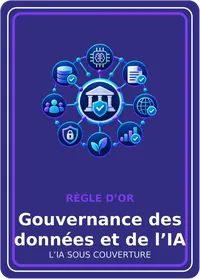
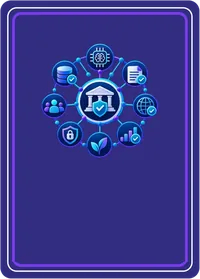
Distribue les cartes par identifiant et écrit le texte des dos de cartes en HTML
Première étape vers un jeu en anglais, allemand, italien et espagnol.

- Chaque carte reçoit un identifiant (« classique:R1-C03 », « po:R2-U01 ») ;
  le moteur distribue les cartes par identifiant et non plus par texte.
  La distribution est identique (vérifiée sur 6 400 manches) ; modifier ou
  traduire un texte ne change plus les parties en cours.
- cardId passe de js/xlsx.js à js/cards.js (réexporté par js/xlsx.js).
- Les dos de cartes n'ont plus de texte dans l'image : « Règle d'or », le
  thème et « L'IA sous couverture » sont écrits en HTML par-dessus, en
  tailles proportionnelles à la carte. Le libellé « Règle d'or » est
  éclairci pour atteindre un contraste de 4,5:1.
- Entrée « Dos de cartes plus lisibles » dans la page Nouveautés, VERSION v62.

Changed region(s): [[0.06, 0.7455, 0.93, 0.9462], [0.33, 0.6882, 0.69, 0.7455]]

diff --git a/js/app.js b/js/app.js
@@ -481,10 +481,19 @@ function backImg(rule, className = "back", { lazy = true, small = false } = {}) 
         <span class="lt-back-foot">L'IA sous couverture</span>
       </div>`;
   }
-  const src = small ? rule.back.replace(".webp", "-mini.webp") : rule.back;
-  const [w, h] = small ? [200, 279] : [640, 893];
+  const loading = lazy ? 'loading="lazy"' : "";
   // Les vignettes sont toujours accompagnées du nom de la règle en texte : elles sont décoratives.
-  return `<img class="${className}" src="${src}" width="${w}" height="${h}" draggable="false" ${lazy ? 'loading="lazy"' : ""} alt="${small ? "" : alt}">`;
+  if (small) return `<img class="${className}" src="${rule.back.replace(".webp", "-mini.webp")}" width="200" height="279" draggable="false" ${loading} alt="">`;
+  // Grand dos : illustration sans texte, et le texte de la carte en HTML (traduisible).
+  return `
+    <div class="${className} back-art back--r${rule.id}" role="img" aria-label="${alt}">
+      <img src="${rule.back}" width="640" height="893" draggable="false" ${loading} alt="">
+      <span class="back-text" aria-hidden="true">
+        <span class="back-label">Règle d'or</span>
+        <strong>${esc(rule.theme)}</strong>
+        <span class="back-foot">L'IA sous couverture</span>
+      </span>
+    </div>`;
 }
 
 // Carte secrète : le dos de la carte de la règle d'or la masque. On la retourne en la touchant, en
@@ -549,10 +558,10 @@ function bindSecret() {
 // Carte vue par un joueur. Coopératif : personne ne connaît son rôle. Compétitif : chacun le connaît.
 function playerCardHtml(game, deal, me) {
   const { id: ruleId, theme, summary } = deal.rule;
-  if (game.mode === "coop") return cardHtml({ ruleId, text: me.card, theme, summary });
+  if (game.mode === "coop") return cardHtml({ ruleId, text: me.card.text, theme, summary });
   return me.role === "undercover"
-    ? cardHtml({ ruleId, text: me.card, theme, summary, kind: "undercover", note: "<strong>Tu es l'undercover :</strong> ta carte enfreint la règle d'or. Fais-toi passer pour un équipier ! <strong>Pour bluffer :</strong> décris le contexte de ta carte (qui, quel outil, pour quoi faire) et tais le détail qui enfreint la règle." })
-    : cardHtml({ ruleId, text: me.card, theme, summary, note: "<strong>Tu es équipier :</strong> ta carte respecte la règle d'or. Démasque l'undercover ! <strong>Ta mission :</strong> repère la description trop vague ou qui évite un détail, et pose une question à ce joueur pendant le débat." });
+    ? cardHtml({ ruleId, text: me.card.text, theme, summary, kind: "undercover", note: "<strong>Tu es l'undercover :</strong> ta carte enfreint la règle d'or. Fais-toi passer pour un équipier ! <strong>Pour bluffer :</strong> décris le contexte de ta carte (qui, quel outil, pour quoi faire) et tais le détail qui enfreint la règle." })
+    : cardHtml({ ruleId, text: me.card.text, theme, summary, note: "<strong>Tu es équipier :</strong> ta carte respecte la règle d'or. Démasque l'undercover ! <strong>Ta mission :</strong> repère la description trop vague ou qui évite un détail, et pose une question à ce joueur pendant le débat." });
 }
 
 // Indication visible sous la carte, même face cachée : elle ne doit pas dépendre du rôle.
@@ -1586,7 +1595,7 @@ function viewHost(code) {
       const { id: ruleId, theme, summary } = deal.rule;
       openModal(`
         <h2>Carte de ${esc(playerName(hostState(code), seat))}</h2>
-        ${cardHtml({ ruleId, text: deal.roles[seat - 1].card, theme, summary })}
+        ${cardHtml({ ruleId, text: deal.roles[seat - 1].card.text, theme, summary })}
         <button class="btn btn--primary" data-close>Fermer</button>`);
     })
   );
@@ -1765,13 +1774,13 @@ function viewDebrief(code, { round, names, back, mySeat = null, unplayed = false
   const deal = dealRound(game, shown);
   const rule = deal.rule;
   const label = (seat) => (names ? names[seat] || `Joueur ${seat}` : playerName(state, seat)) + (seat === mySeat ? " (toi)" : "");
-  const holders = (text) =>
+  const holders = (card) =>
     deal.roles
-      .filter((r) => r.card === text)
+      .filter((r) => r.card === card)
       .map((r) => label(r.seat))
       .join(", ");
   const [backHref, backText] = back || (round ? [`#/end/${code}`, "Retour aux résultats"] : [`#/host/${code}`, "Retour à la partie"]);
-  const distributed = rule.civilians.filter((c) => holders(c.text));
+  const distributed = rule.civilians.filter((c) => holders(c));
 
   app.innerHTML = `
     <section>
@@ -1789,7 +1798,7 @@ function viewDebrief(code, { round, names, back, mySeat = null, unplayed = false
       <h2>${deal.undercovers.length > 1 ? "Les cartes undercover" : "La carte undercover"}</h2>
       ${deal.undercovers
         .map(
-          (u) => `${cardHtml({ ruleId: rule.id, card: u, kind: "undercover", label: holders(u.text) })}
+          (u) => `${cardHtml({ ruleId: rule.id, card: u, kind: "undercover", label: holders(u) })}
       <p class="why"><strong>Pourquoi elle enfreint la règle :</strong> ${esc(u.why)}</p>`
         )
         .join("")}
@@ -1798,7 +1807,7 @@ function viewDebrief(code, { round, names, back, mySeat = null, unplayed = false
       <div class="debrief-civ">
       <h2>Les cartes des équipiers</h2>
       <div class="grid">
-        ${distributed.map((c) => cardHtml({ ruleId: rule.id, card: c, label: holders(c.text) })).join("")}
+        ${distributed.map((c) => cardHtml({ ruleId: rule.id, card: c, label: holders(c) })).join("")}
       </div>
 
       <h2>Questions pour la discussion</h2>

diff --git a/tests/game.test.js b/tests/game.test.js
@@ -29,6 +29,18 @@ test("chaque règle a ses cartes civiles et undercover, un dos et ses textes", (
   assert.equal(new Set(texts).size, texts.length, "chaque carte est unique");
 });
 
+test("chaque carte a un identifiant unique, préfixé par son édition", () => {
+  const ids = [];
+  for (const [edition, { rules }] of Object.entries(EDITIONS)) {
+    for (const r of rules) {
+      r.civilians.forEach((c, i) => assert.equal(c.id, `${edition}:R${r.id}-C${String(i + 1).padStart(2, "0")}`));
+      r.undercovers.forEach((c, i) => assert.equal(c.id, `${edition}:R${r.id}-U${String(i + 1).padStart(2, "0")}`));
+      ids.push(...r.civilians.concat(r.undercovers).map((c) => c.id));
+    }
+  }
+  assert.equal(new Set(ids).size, ids.length);
+});
+
 test("le code encode et décode les paramètres", () => {
   for (let players = 3; players <= MAX_PLAYERS; players++) {
     for (const undercovers of [1, 2]) {
@@ -89,8 +101,8 @@ test("la distribution est identique sur tous les appareils et respecte les rôle
       const pool = rulePool(a.rule, deck);
       assert.ok(pool.undercovers.includes(a.undercover));
       for (const r of a.roles) {
-        if (r.role === "undercover") assert.equal(r.card, a.undercover.text);
-        else assert.ok(pool.civilians.some((c) => c.text === r.card));
+        if (r.role === "undercover") assert.equal(r.card, a.undercover);
+        else assert.ok(pool.civilians.includes(r.card));
       }
       assert.ok(a.starter >= 1 && a.starter <= players);
     }
@@ -116,7 +128,7 @@ test("les codes de l'ancien format sont refusés", () => {
 test("les civils reçoivent des cartes différentes tant que possible", () => {
   const game = decodeCode(encodeCode({ ...base, seed: 42 }));
   for (let round = 1; round <= 7; round++) {
-    const cards = dealRound(game, round).roles.filter((r) => r.role === "civilian").map((r) => r.card);
+    const cards = dealRound(game, round).roles.filter((r) => r.role === "civilian").map((r) => r.card.text);
     assert.equal(new Set(cards).size, cards.length);
   }
 });
@@ -214,7 +226,7 @@ test("la distribution tient compte des manches précédentes de façon détermin
 test("deux undercovers : même carte, ou une carte chacun si la règle en a assez", () => {
   for (let seed = 0; seed < 40; seed++) {
     const settings = { seed, players: 7, undercovers: 2, rounds: 7 };
-    const cardsOf = (deal) => deal.roles.filter((r) => r.role === "undercover").map((r) => r.card);
+    const cardsOf = (deal) => deal.roles.filter((r) => r.role === "undercover").map((r) => r.card.text);
     // Par défaut : la même carte pour les deux (7 joueurs et plus : toujours avec l'extension).
     const same = dealRound(decodeCode(encodeCode({ ...settings, deck: "ext" })), 1);
     assert.equal(new Set(cardsOf(same)).size, 1);
@@ -242,7 +254,7 @@ test("deux joueurs ne reçoivent jamais la même carte", () => {
           for (let seed = 0; seed < 12; seed++) {
             const game = decodeCode(encodeCode({ seed: seed * 101 + players, players, undercovers, rounds: 14, deck, ucCards }));
             for (let round = 1; round <= 14; round++) {
-              const civilians = dealRound(game, round).roles.filter((r) => r.role === "civilian").map((r) => r.card);
+              const civilians = dealRound(game, round).roles.filter((r) => r.role === "civilian").map((r) => r.card.text);
               assert.equal(new Set(civilians).size, civilians.length, `${players} joueurs, ${deck}, manche ${round}`);
             }
             games++;
@@ -288,7 +300,7 @@ test("édition PO : stockée dans le code, mêmes règles, mêmes effectifs que 
     assert.ok(rule.undercovers.every((u) => u.why), `règle ${rule.id} : chaque undercover a son explication`);
   }
   const deal = dealRound(po, 1);
-  assert.ok(EDITIONS.po.rules.some((r) => r.undercovers.some((u) => u.text === deal.roles.find((x) => x.role === "undercover").card)));
+  assert.ok(EDITIONS.po.rules.some((r) => r.undercovers.includes(deal.roles.find((x) => x.role === "undercover").card)));
 });
 
 test("6 cartes undercover par règle : 2 faciles, 2 moyennes, 2 difficiles, et le jeu de base ne garde qu'une facile", () => {

diff --git a/js/game.js b/js/game.js
@@ -225,7 +225,7 @@ export function rulePool(rule, deck = "base") {
 
 // Mélange, puis place en tête les cartes les moins distribuées dans les manches précédentes.
 function freshFirst(cards, usage, rand) {
-  return shuffle(cards, rand).sort((a, b) => (usage.get(a.text) || 0) - (usage.get(b.text) || 0));
+  return shuffle(cards, rand).sort((a, b) => (usage.get(a.id) || 0) - (usage.get(b.id) || 0));
 }
 
 function dealOne(game, round, ucCounts, starterCounts, usage) {
@@ -259,10 +259,10 @@ function dealOne(game, round, ucCounts, starterCounts, usage) {
   let civilianIndex = 0;
   seats.forEach((seat, i) => {
     if (i < undercovers) {
-      roles[seat] = { seat, role: "undercover", card: undercoverCards[i % ucCount].text };
+      roles[seat] = { seat, role: "undercover", card: undercoverCards[i % ucCount] };
     } else {
       // validateSettings garantit au moins une carte par équipier : aucune carte n'est donnée deux fois.
-      const card = civilianCards[civilianIndex].text;
+      const card = civilianCards[civilianIndex];
       civilianIndex++;
       roles[seat] = { seat, role: "civilian", card };
     }
@@ -279,20 +279,21 @@ function dealOne(game, round, ucCounts, starterCounts, usage) {
 }
 
 /**
- * Calcule la manche complète : règle jouée, rôle et carte de chaque joueur, cartes undercover
- * distribuées (undercovers, avec leur explication ; undercover est la première), premier joueur.
+ * Calcule la manche complète : règle jouée, rôle et carte de chaque joueur (objet de js/cards.js),
+ * cartes undercover distribuées (undercovers, avec leur explication ; undercover est la première),
+ * premier joueur.
  * Les joueurs sont numérotés à partir de 1. Les manches précédentes sont recalculées pour
  * répartir le rôle d'undercover et la prise de parole.
  */
 export function dealRound(game, round) {
   const ucCounts = new Array(game.players + 1).fill(0);
   const starterCounts = new Array(game.players + 1).fill(0);
-  const usage = new Map(); // nombre de distributions de chaque carte (par texte)
+  const usage = new Map(); // nombre de distributions de chaque carte (par identifiant)
   let deal;
   for (let r = 1; r <= round; r++) {
     deal = dealOne(game, r, ucCounts, starterCounts, usage);
     for (const role of deal.roles) if (role.role === "undercover") ucCounts[role.seat]++;
-    for (const text of new Set(deal.roles.map((role) => role.card))) usage.set(text, (usage.get(text) || 0) + 1);
+    for (const id of new Set(deal.roles.map((role) => role.card.id))) usage.set(id, (usage.get(id) || 0) + 1);
     starterCounts[deal.starter]++;
   }
   return deal;

diff --git a/css/style.css b/css/style.css
@@ -187,6 +187,26 @@ input[type="number"], input.code-input, input.name {
 .back--thumb { width: 44px; flex: none; filter: none; }
 .back--round { width: 96px; flex: none; }
 .back--grid { align-self: start; }
+/* Grand dos : illustration sans texte, texte de la carte en HTML par-dessus (bas de la carte).
+   Tailles en cqw (largeur de la carte) : le texte garde ses proportions à toutes les tailles. */
+.back-art { position: relative; container-type: inline-size; overflow: hidden; }
+.back-art > img { display: block; width: 100%; height: 100%; object-fit: cover; }
+.back-text {
+  position: absolute; left: 10%; right: 10%; top: 67%; bottom: 6.5%;
+  display: flex; flex-direction: column; align-items: center; justify-content: center; gap: 1.5cqw;
+  text-align: center; line-height: 1.12; color: #fff; hyphens: auto; overflow-wrap: break-word;
+}
+.back-label { font-size: 4.2cqw; font-weight: 700; letter-spacing: 0.08em; text-transform: uppercase; color: var(--back-label); }
+.back-text strong { font-size: 7.4cqw; font-weight: 800; }
+.back-foot { font-size: 3.5cqw; letter-spacing: 0.04em; text-transform: uppercase; color: #e8f6fa; }
+/* Couleur du libellé « Règle d'or », éclaircie jusqu'à 4,5:1 sur le fond de chaque dos. */
+.back--r1 { --back-label: #c6e9f3; }
+.back--r2 { --back-label: #08b0d0; }
+.back--r3 { --back-label: #b894f2; }
+.back--r4 { --back-label: #b9e3cb; }
+.back--r5 { --back-label: #f2c653; }
+.back--r6 { --back-label: #f2a7a3; }
+.back--r7 { --back-label: #f6a7ac; }
 .round-bar, .debrief-head { display: flex; gap: 16px; align-items: center; }
 .round-bar > div, .debrief-head > div { min-width: 0; }
 /* Éventail de l'accueil. --w : largeur d'une carte, --h : sa hauteur, --m : chevauchement (marge
@@ -886,6 +906,7 @@ section > .chips { flex-wrap: wrap; margin: 8px 0 16px; }
 #app[data-view="cards"] .grid .card { min-height: 0; height: var(--card-h, auto); }
 #app[data-view="cards"] .card-text { margin: 0 0 auto; }
 #app[data-view="cards"] .back--grid { height: var(--card-h, auto); aspect-ratio: auto; object-fit: contain; }
+#app[data-view="cards"] .back-art.back--grid { aspect-ratio: 640 / 893; width: auto; justify-self: center; }
 #app[data-view="cards"] .lt-back.back--grid .lt-icon { flex: 1 1 0; min-height: 0; width: auto; max-width: 65%; }
 /* Sur une colonne, le dos de carte prendrait un écran entier : la vignette de l'en-tête suffit. */
 @media (max-width: 599px) {

diff --git a/js/cards.js b/js/cards.js
@@ -19,7 +19,9 @@
 // L'animateur choisit à la création de la partie de jouer avec le jeu de base seul ou avec l'extension.
 //
 // Pour modifier le jeu, il suffit d'éditer ce fichier : aucune autre modification n'est nécessaire.
-// Changer le texte d'une carte change la distribution des parties en cours qui l'utilisent.
+// Chaque carte reçoit un identifiant (id) d'après sa place dans sa règle : le moteur distribue les cartes
+// par identifiant. Modifier un texte ne change donc pas la distribution des parties en cours ; ajouter,
+// supprimer ou déplacer une carte la change.
 
 export const DECKS = {
   base: "Jeu de base",
@@ -775,4 +777,17 @@ export const EDITIONS = {
   po: { label: "Product Owner", rules: RULES.map(poRule) },
 };
 export const EDITION_IDS = Object.keys(EDITIONS);
+
+/** Identifiant d'une carte dans sa règle : R<règle>-C<n> (équipier) ou R<règle>-U<n> (undercover). */
+export function cardId(ruleId, kind, index) {
+  return `R${ruleId}-${kind === "undercover" ? "U" : "C"}${String(index + 1).padStart(2, "0")}`;
+}
+
+// Identifiant unique de chaque carte, préfixé par l'édition : « classique:R1-C03 », « po:R2-U01 ».
+for (const [edition, { rules }] of Object.entries(EDITIONS)) {
+  for (const rule of rules) {
+    rule.civilians.forEach((card, i) => (card.id = `${edition}:${cardId(rule.id, "civilian", i)}`));
+    rule.undercovers.forEach((card, i) => (card.id = `${edition}:${cardId(rule.id, "undercover", i)}`));
+  }
+}
 export const rulesOf = (edition) => EDITIONS[edition].rules;

diff --git a/js/xlsx.js b/js/xlsx.js
@@ -5,6 +5,8 @@
 // Ce module sert au navigateur (bouton « Exporter en Excel » du catalogue) et à npm run cartes:export.
 // Le classeur modifié est reporté dans js/cards.js par un agent de code (voir AGENTS.md).
 
+import { cardId } from "./cards.js";
+
 // --- Contenu : les cartes et les règles d'or ----------------------------------------------------
 
 export const CARD_COLUMNS = [
@@ -30,10 +32,8 @@ export const RULE_COLUMNS = [
 export const KINDS = { civilian: "Équipier", undercover: "Undercover" };
 export const LEVELS = { easy: "Facile", medium: "Moyenne", hard: "Difficile" };
 
-/** Identifiant stable d'une carte dans l'export : R<règle>-C<n> (équipier) ou R<règle>-U<n> (undercover). */
-export function cardId(ruleId, kind, index) {
-  return `R${ruleId}-${kind === "undercover" ? "U" : "C"}${String(index + 1).padStart(2, "0")}`;
-}
+// Identifiant d'une carte dans l'export : R<règle>-C<n> (équipier) ou R<règle>-U<n> (undercover).
+export { cardId };
 
 const HOW_TO = [
   "Ce classeur contient le texte de toutes les cartes du jeu « Undercover IA responsable ».",

diff --git a/js/changelog.js b/js/changelog.js
@@ -7,6 +7,14 @@
 export const CHANGELOG = [
   {
     date: "2026-11-23",
+    title: "Dos de cartes plus lisibles",
+    items: [
+      "Le titre de la règle d'or est désormais écrit en texte sur le dos des cartes, et non plus dans l'image : il reste net à toutes les tailles d'écran et il est lu par les lecteurs d'écran. Le libellé « Règle d'or » est un peu plus clair, pour mieux ressortir sur le fond.",
+      "Les illustrations et les couleurs ne changent pas. C'est une première étape vers un jeu disponible en anglais, allemand, italien et espagnol.",
+    ],
+  },
+  {
+    date: "2026-11-23",
     title: "Afficher la carte d'un joueur",
     items: [
       "Mode coopératif : sur l'écran de l'animateur, le bouton en forme d'œil, à gauche de « Désigner », affiche la carte d'un joueur à tout le groupe, par exemple au vidéoprojecteur pendant qu'il la lit. Son rôle n'est pas révélé.",

diff --git a/sw.js b/sw.js
@@ -1,7 +1,7 @@
 // Service worker : met l'application en cache pour qu'elle fonctionne même sans réseau
 // (utile dans une salle de formation avec un Wi-Fi capricieux).
 // Incrémenter VERSION à chaque modification des fichiers pour forcer la mise à jour.
-const VERSION = "v61";
+const VERSION = "v62";
 // Seul le cœur de l'application est préchargé ; les images sont mises en cache à la première
 // utilisation (le mode low-tech n'en télécharge presque aucune).
 const ASSETS = [
